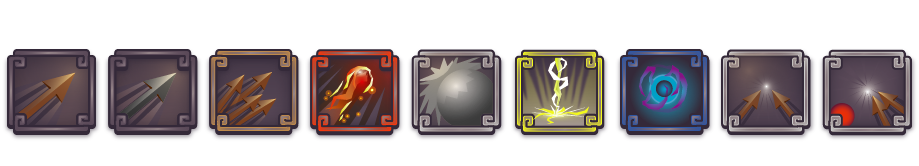
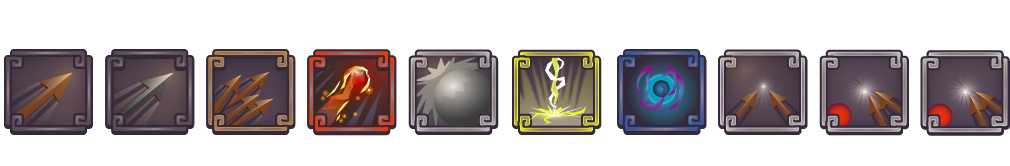
Add glow effect when item is selected

diff --git a/Assets/Scripts/ViewModels/Inventory.cs b/Assets/Scripts/ViewModels/Inventory.cs
@@ -8,13 +8,15 @@ namespace Scripts.ViewModels
 {
 	public class Inventory : Element, IContext
 	{
-		private readonly InventoryModel _model;
-		private PropertyLookup _propertyLookup;
 		public Action ChildrenChanged;
 
 		public AdjustableProperty<string> SelectedItemBaseName;
 		public AdjustableProperty<string> SelectedItemStatNames;
 		public AdjustableProperty<string> SelectedItemStatNumbers;
+
+		private readonly InventoryModel _model;
+		private PropertyLookup _propertyLookup;
+		private Item _selectedItem;
 
 		public Inventory(InventoryModel model, Base parent) : base(model, parent)
 		{
@@ -85,6 +87,13 @@ namespace Scripts.ViewModels
 
 		public void SelectItem(Item item)
 		{
+			if (_selectedItem != null)
+			{
+				_selectedItem.IsSelected.SetValue(false);
+			}
+			_selectedItem = item;
+			_selectedItem.IsSelected.SetValue(true);
+
 			SelectedItemBaseName.SetValue(item.BaseItem);
 			SelectedItemStatNames.SetValue(item.Stats);
 			SelectedItemStatNumbers.SetValue(item.Numbers);

diff --git a/Assets/Scripts/Views/ItemView.cs b/Assets/Scripts/Views/ItemView.cs
@@ -23,6 +23,7 @@ namespace Scripts.Views
 			_viewModel = viewModel;
 			_parent = parent;
 
+			_viewModel.IsSelected.OnChange += UpdateSelectedMark;
 			_viewModel.ParentChanged += Parent_OnChanged;
 		}
 
@@ -47,7 +48,8 @@ namespace Scripts.Views
 		{
 			base.OnLoad();
 
-			GameObject.GetComponent<Image>().sprite =
+			GameObject.GetComponent<Image>().enabled = false;
+			Transform.GetChild(0).GetComponent<Image>().sprite =
 				SpriteLookup.Instance.GetSpriteByName(_viewModel.BaseItem);
 		}
 
@@ -71,6 +73,11 @@ namespace Scripts.Views
 			_parent = newParent.Root.GetView<ObjectView>(newParent);
 
 			Transform.SetParent(GetParent());
+		}
+
+		private void UpdateSelectedMark()
+		{
+			GameObject.GetComponent<Image>().enabled = _viewModel.IsSelected.GetValue();
 		}
 	}
 }

diff --git a/Assets/Scripts/ViewModels/Object.cs b/Assets/Scripts/ViewModels/Object.cs
@@ -11,13 +11,14 @@ namespace Scripts.ViewModels
 {
 	public class Object : Triggerable
 	{
-		private readonly ObjectModel _model;
+		public event Action OnStartSpecialEvent;
+		public Action<Object> OnObjectDeactivated;
 
 		protected readonly List<Object> Elements = new List<Object>();
 
+		private readonly ObjectModel _model;
 		private bool _isDelaysIgnored;
 		private Vector3 _position;
-		public Action<Object> OnObjectDeactivated;
 
 		public Object(ObjectModel model, Base parent) : base(model, parent)
 		{
@@ -77,8 +78,6 @@ namespace Scripts.ViewModels
 			get { return _position; }
 			protected set { _position = value; }
 		}
-
-		public event Action OnStartSpecialEvent;
 
 		/// <summary>
 		///     Activate and Assign a position manager

diff --git a/Assets/Scripts/ViewModels/Item.cs b/Assets/Scripts/ViewModels/Item.cs
@@ -7,6 +7,7 @@ namespace Scripts.ViewModels
 	public class Item : Object
 	{
 		public Action<Object> ParentChanged;
+		public AdjustableProperty<bool> IsSelected;
 
 		private readonly ItemModel _model;
 
@@ -14,6 +15,8 @@ namespace Scripts.ViewModels
 			: base(model, parent)
 		{
 			_model = model;
+
+			IsSelected = new AdjustableProperty<bool>("IsSelected", this);
 
 			BaseName = _model.BaseItem;
 		}
